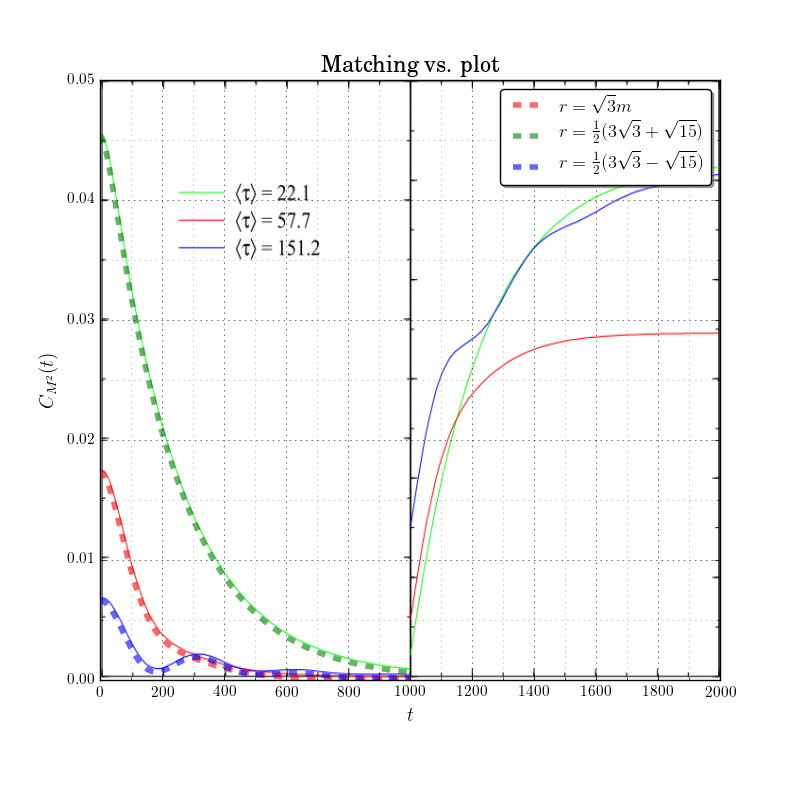
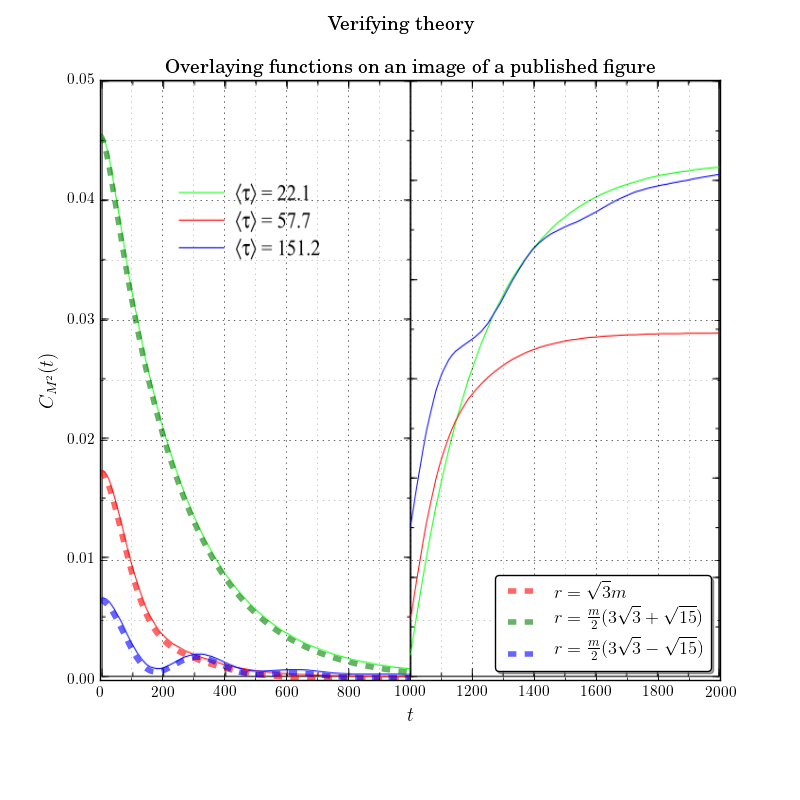
issue: #43 theory for a/c for phi^2
Former-commit-id: e42da61026475b17b2aacff577f5b42d6ad75236

Changed region(s): [[0.2188, 0.0, 0.9062, 0.25], [0.5938, 0.7188, 0.9062, 0.8438], [0.4062, 0.0, 0.4688, 0.0312]]

diff --git a/results/misc_appendixA3_acorr.py b/results/misc_appendixA3_acorr.py
@@ -25,7 +25,8 @@ dy = (.0-.05)/5.
 fig = plt.figure(figsize=(8,8))
 ax = fig.add_subplot(111)
 
-ax.set_title(r'Matching vs. plot', fontsize=pp.ttfont)
+fig.suptitle(r"Verifying theory", fontsize=pp.tfont)
+ax.set_title(r'Overlaying functions on an image of a published figure', fontsize=pp.tfont)
 ax.set_xlabel(r'$t$', fontsize=pp.tfont)
 ax.set_ylabel(r'$C_{M^2}(t)$', fontsize=pp.tfont)
 
@@ -66,10 +67,10 @@ x = np.linspace(0, 1000, 1000, True)
 plt.plot(x, f.eval(x), linewidth=4., color='red', alpha=0.6, linestyle="--", 
     label = r'$r = \sqrt{3}m$')
 plt.plot(x, f.eval(x, r=next(r)), linewidth=4., color='green', alpha=0.6, linestyle="--",
-    label = r'$r = \frac{1}{2}(3\sqrt{3} + \sqrt{15})$')
+    label = r'$r = \frac{m}{2}(3\sqrt{3} + \sqrt{15})$')
 plt.plot(x, f.eval(x, r=next(r)), linewidth=4., color='blue', alpha=0.6, linestyle="--",
-    label = r'$r = \frac{1}{2}(3\sqrt{3} - \sqrt{15})$')
+    label = r'$r = \frac{m}{2}(3\sqrt{3} - \sqrt{15})$')
 
-ax.legend(loc='best', shadow=True, fancybox=True)
+ax.legend(loc='lower right', shadow=True, fancybox=True)
 
 pp.save_or_show(saveOrDisplay(save, file_name), PLOT_LOC)
